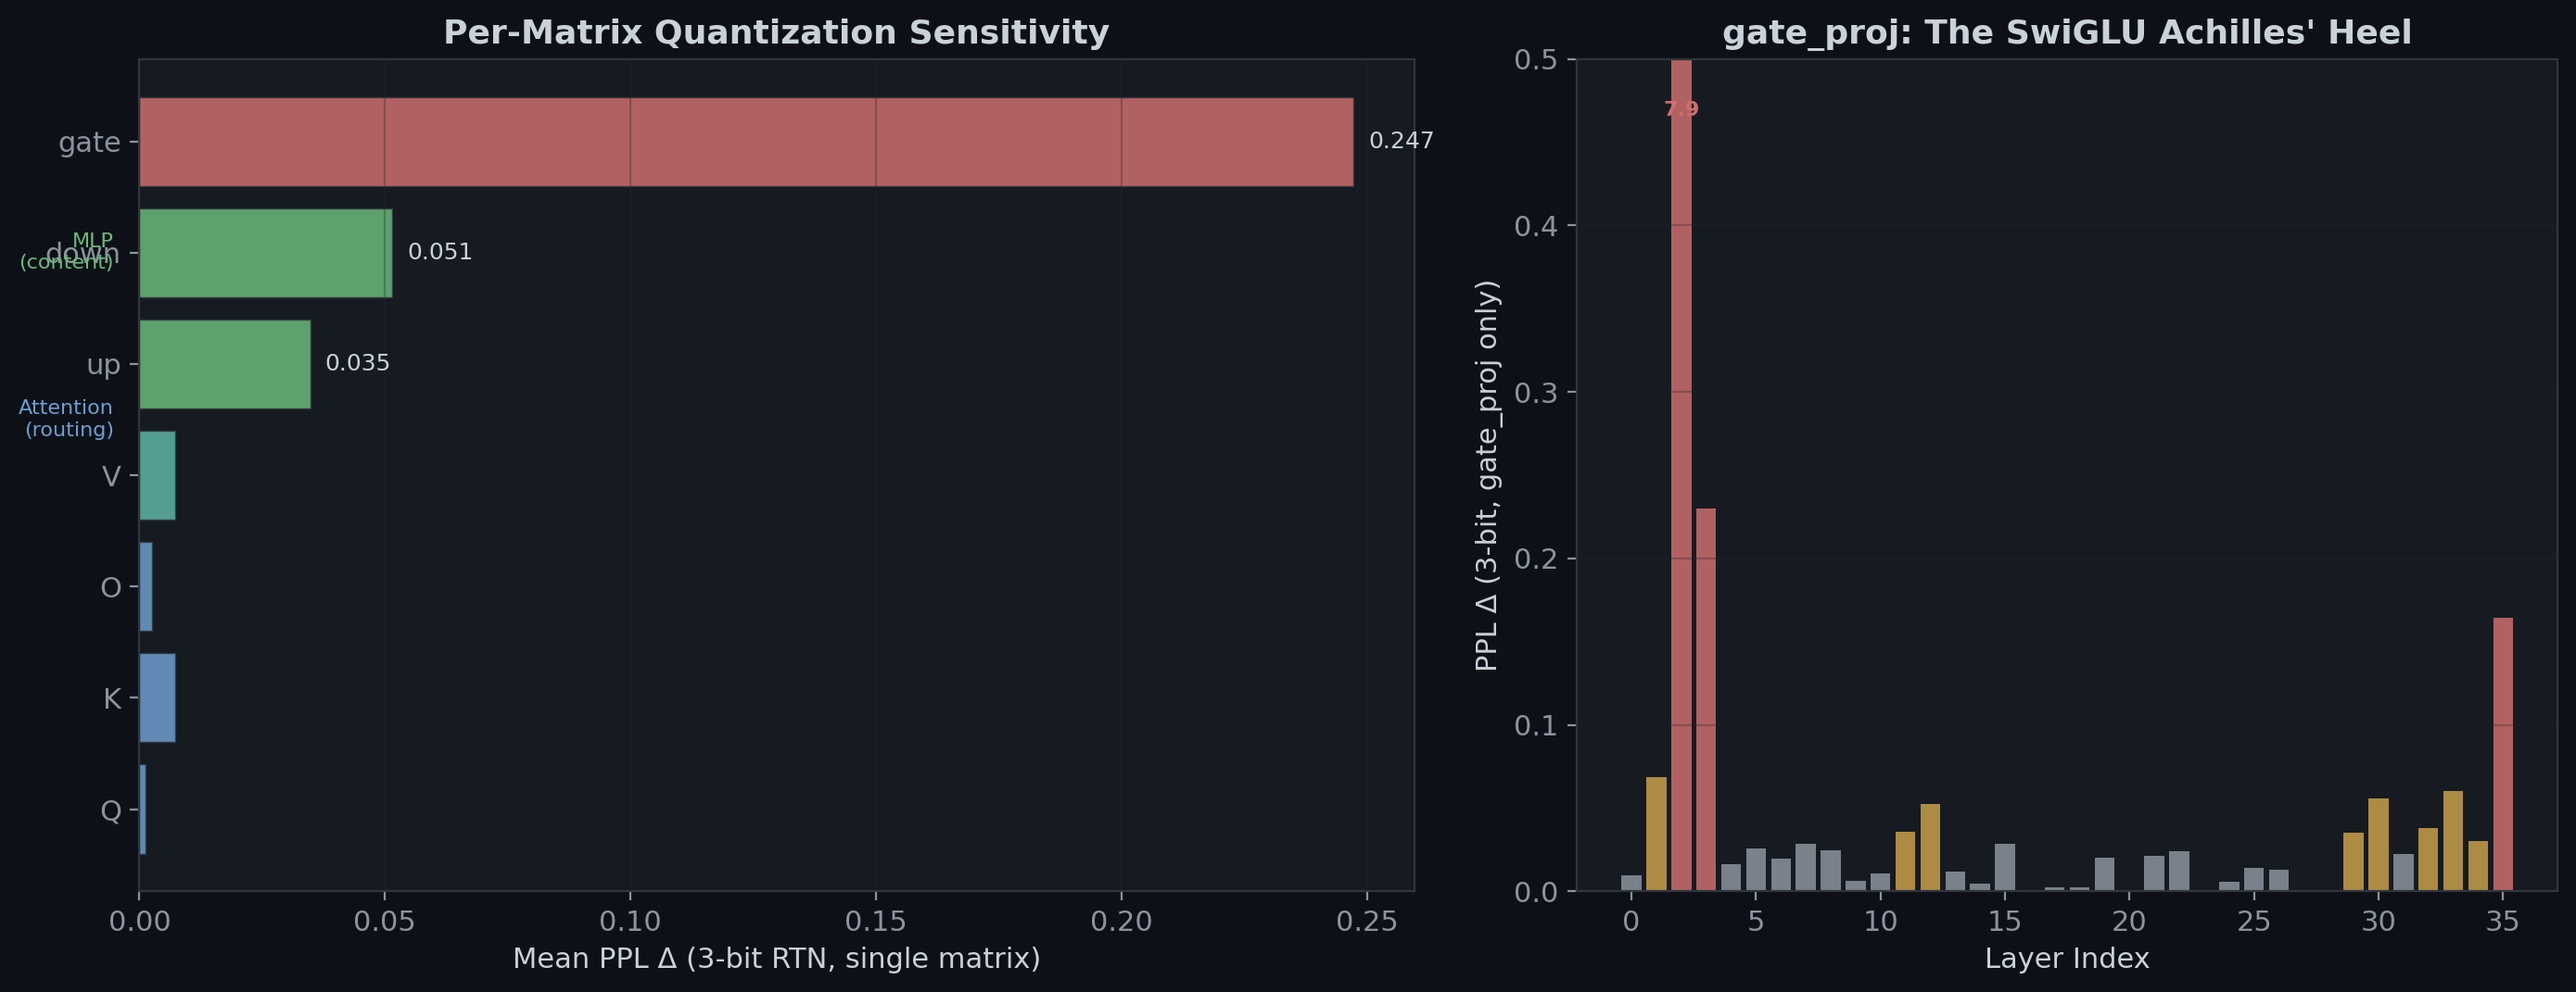
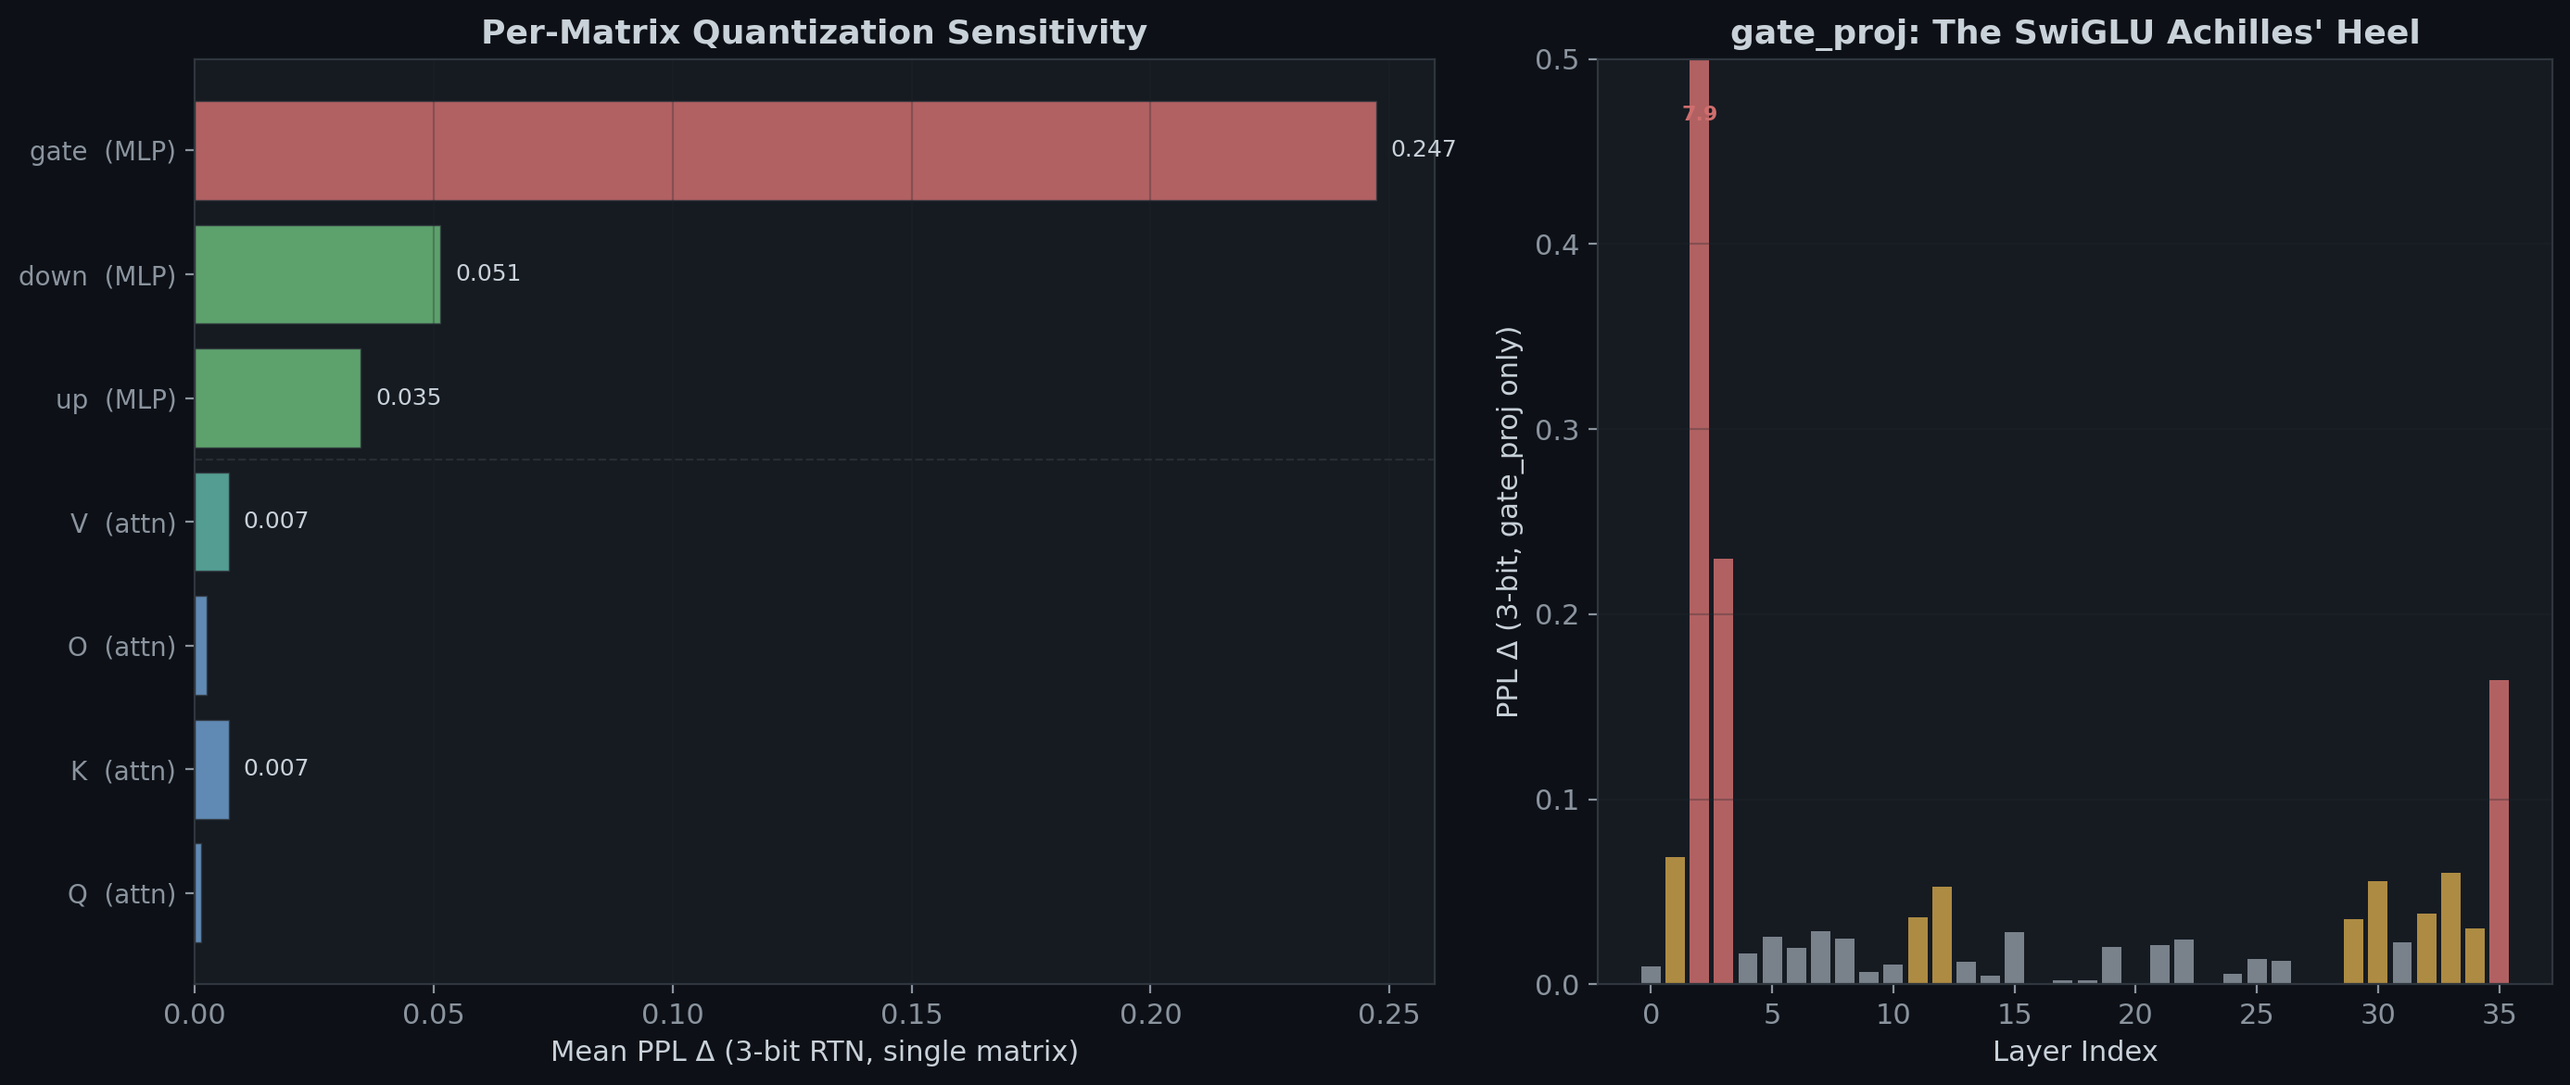
Update TODO and README to mark T-11 quantization as completed

diff --git a/blog/generate_t11_figures.py b/blog/generate_t11_figures.py
@@ -161,35 +161,32 @@ print("Saved fig10_quant_sensitivity.png")
 
 # ── Figure 11: Per-Matrix Quantization Sensitivity ──────────────
 
-fig, axes = plt.subplots(1, 2, figsize=(14, 5.5),
+fig, axes = plt.subplots(1, 2, figsize=(14, 6),
                           gridspec_kw={'width_ratios': [1.3, 1]})
 
-# Left: Mean sensitivity by matrix type
+# Left: Mean sensitivity by matrix type (grouped with visual separators)
 ax = axes[0]
 mat_order = ["q_proj", "k_proj", "o_proj", "v_proj", "up_proj", "down_proj", "gate_proj"]
 mat_means = [mat_sens[m].mean() for m in mat_order]
 mat_colors = [C_BLUE, C_BLUE, C_BLUE, C_CYAN, C_GREEN, C_GREEN, C_RED]
-mat_labels_short = ["Q", "K", "O", "V", "up", "down", "gate"]
+mat_labels_short = ["Q  (attn)", "K  (attn)", "O  (attn)", "V  (attn)",
+                     "up  (MLP)", "down  (MLP)", "gate  (MLP)"]
 
 bars = ax.barh(range(len(mat_order)), mat_means, color=mat_colors, alpha=0.85,
                edgecolor='#30363d', linewidth=0.5)
 ax.set_yticks(range(len(mat_order)))
-ax.set_yticklabels(mat_labels_short, fontsize=11)
+ax.set_yticklabels(mat_labels_short, fontsize=10)
 ax.set_xlabel("Mean PPL Δ (3-bit RTN, single matrix)")
 ax.set_title("Per-Matrix Quantization Sensitivity", fontsize=13, fontweight='bold')
 ax.grid(True, axis='x', alpha=0.3)
+# Separator line between attention and MLP groups
+ax.axhline(y=3.5, color='#30363d', ls='--', lw=0.8, alpha=0.7)
 
 # Add value labels
 for i, (bar, val) in enumerate(zip(bars, mat_means)):
-    if val > 0.01:
+    if val > 0.005:
         ax.text(val + 0.003, bar.get_y() + bar.get_height() / 2,
                 f'{val:.3f}', va='center', fontsize=9, color='#c9d1d9')
-
-# Annotate groups
-ax.text(-0.02, 3.5, 'Attention\n(routing)', fontsize=8, color=C_BLUE, ha='right',
-        va='center', transform=ax.get_yaxis_transform())
-ax.text(-0.02, 5.0, 'MLP\n(content)', fontsize=8, color=C_GREEN, ha='right',
-        va='center', transform=ax.get_yaxis_transform())
 
 # Right: gate_proj sensitivity by layer (showing the L2 spike)
 ax = axes[1]
@@ -217,57 +214,61 @@ print("Saved fig11_quant_matrix.png")
 
 # ── Figure 12: Mixed-Precision Recipes ──────────────────────────
 
-fig, ax = plt.subplots(figsize=(12, 5))
+fig, ax = plt.subplots(figsize=(13, 5.5))
 
 recipes = [
     ("Uniform\n4-bit", t11_p3["recipes"]["uniform_4bit"]["ppl_delta"], C_GRAY),
-    ("T-9 Spectral\nInformed", min(t11_p3["recipes"]["t9_spectral"]["ppl_delta"], 500), C_PURPLE),
-    ("T-7 Linearity\nInformed", min(t11_p3["recipes"]["t7_linearity"]["ppl_delta"], 500), C_ORANGE),
+    ("Spectral\nInformed", min(t11_p3["recipes"]["t9_spectral"]["ppl_delta"], 500), C_PURPLE),
+    ("Linearity\nInformed", min(t11_p3["recipes"]["t7_linearity"]["ppl_delta"], 500), C_ORANGE),
     ("Sensitivity\nOracle", t11_p3["recipes"]["sensitivity_oracle"]["ppl_delta"], C_CYAN),
     ("L35 at 5-bit\n(rest 4-bit)", t11_p3["recipes"]["first_last_protected"]["ppl_delta"], C_GREEN),
     ("Q/K=3b\nV/MLP=5b", t11_p3["recipes"]["qk3_vmul5"]["ppl_delta"], C_BLUE),
 ]
+
+actuals = [t11_p3["recipes"]["uniform_4bit"]["ppl_delta"],
+           t11_p3["recipes"]["t9_spectral"]["ppl_delta"],
+           t11_p3["recipes"]["t7_linearity"]["ppl_delta"],
+           t11_p3["recipes"]["sensitivity_oracle"]["ppl_delta"],
+           t11_p3["recipes"]["first_last_protected"]["ppl_delta"],
+           t11_p3["recipes"]["qk3_vmul5"]["ppl_delta"]]
 
 names = [r[0] for r in recipes]
 deltas = [r[1] for r in recipes]
 colors = [r[2] for r in recipes]
 
 bars = ax.bar(range(len(recipes)), deltas, color=colors, alpha=0.85,
-              edgecolor='#30363d', linewidth=0.5, width=0.7)
+              edgecolor='#30363d', linewidth=0.5, width=0.65)
 ax.set_xticks(range(len(recipes)))
-ax.set_xticklabels(names, fontsize=9)
+ax.set_xticklabels(names, fontsize=10)
 ax.set_ylabel("PPL Δ from BF16 baseline")
-ax.set_title("Mixed-Precision Recipes at ~4-bit Average: Simple Wins",
+ax.set_title("Mixed-Precision Recipes at ~4-bit Average",
              fontsize=13, fontweight='bold', pad=10)
 ax.grid(True, axis='y', alpha=0.3)
 
-# Annotate actual values
+# Annotate actual values — position carefully to avoid overlaps
 for i, (bar, delta) in enumerate(zip(bars, deltas)):
-    actual = [t11_p3["recipes"]["uniform_4bit"]["ppl_delta"],
-              t11_p3["recipes"]["t9_spectral"]["ppl_delta"],
-              t11_p3["recipes"]["t7_linearity"]["ppl_delta"],
-              t11_p3["recipes"]["sensitivity_oracle"]["ppl_delta"],
-              t11_p3["recipes"]["first_last_protected"]["ppl_delta"],
-              t11_p3["recipes"]["qk3_vmul5"]["ppl_delta"]][i]
-    label = f'+{actual:.1f}' if actual < 100 else f'+{actual:.0f}'
+    label = f'+{actuals[i]:.1f}' if actuals[i] < 100 else f'+{actuals[i]:.0f}'
     y = bar.get_height()
-    if y > 10:
-        ax.text(bar.get_x() + bar.get_width() / 2, y * 0.9, label,
-                ha='center', va='top', fontsize=9, color='#0d1117', fontweight='bold')
+    if y > 100:
+        ax.text(bar.get_x() + bar.get_width() / 2, y * 0.5, label,
+                ha='center', va='center', fontsize=10, color='#c9d1d9', fontweight='bold')
+    elif y > 10:
+        ax.text(bar.get_x() + bar.get_width() / 2, y + 8, label,
+                ha='center', va='bottom', fontsize=9, color='#c9d1d9')
     else:
-        ax.text(bar.get_x() + bar.get_width() / 2, y + 2, label,
+        ax.text(bar.get_x() + bar.get_width() / 2, y + 15, label,
                 ha='center', va='bottom', fontsize=9, color='#c9d1d9')
 
-# Arrow pointing to the winner
-ax.annotate('Best', xy=(4, deltas[4]), xytext=(4, deltas[4] + 50),
-            arrowprops=dict(arrowstyle='->', color=C_GREEN, lw=2),
-            fontsize=11, color=C_GREEN, ha='center', fontweight='bold')
+# Star marker on the winner instead of overlapping arrow
+ax.plot(4, deltas[4], '*', color=C_GREEN, markersize=18, zorder=5)
+ax.text(4, deltas[4] + 30, 'Best', ha='center', va='bottom',
+        fontsize=11, color=C_GREEN, fontweight='bold')
 
-# Note about catastrophic failure
-ax.annotate('Spectral recipe assigns\n2-bit to early layers\n→ catastrophic failure',
-            xy=(1, deltas[1]), xytext=(2.5, 400),
-            arrowprops=dict(arrowstyle='->', color=C_PURPLE, lw=1.5),
-            fontsize=8, color=C_PURPLE, ha='center')
+# Note about catastrophic failure — position to the right to avoid overlap
+ax.annotate('Assigns 2-bit to early layers\n→ catastrophic failure',
+            xy=(1, deltas[1]), xytext=(1.8, 380),
+            arrowprops=dict(arrowstyle='->', color=C_PURPLE, lw=1.5, alpha=0.7),
+            fontsize=9, color=C_PURPLE, ha='left')
 
 plt.tight_layout()
 plt.savefig(OUTDIR / "fig12_mixed_precision.png", dpi=200, bbox_inches='tight',

diff --git a/README.md b/README.md
@@ -18,6 +18,8 @@ A collection of deep learning research experiments focused on transformer model 
 
 **[T-9: Weight Spectral Structure](experiments/t9_weight_spectral_structure/)** — SVD analysis of all 252 weight matrices (7 types x 36 layers). Q/K routing matrices are dramatically lower-rank (0.25–0.38 effective rank ratio) than V/O value processing (0.52) and MLP (0.50–0.68), confirming "where to attend" is simpler than "what to extract." Q_proj rank jumps 36.7% at layer 24→25 (discrete transition in routing complexity). Layer 1 MLP is degenerate (gate/down eff rank ~0.12–0.13). Late-layer MLP compression in layers 34–35. Model: Qwen3-4B-Instruct-2507.
 
+**[T-11: Quantization Sensitivity](experiments/t11_quantization/)** — Per-layer and per-matrix quantization sensitivity analysis using RTN simulation (2–8 bit) plus full-model method comparison (bitsandbytes NF4, torchao INT4, GPTQ). Early layers (L0–3) are catastrophically sensitive (L2 at 2-bit: +3,828 PPL), while mid-layers (L8–20) absorb 2-bit with <1 PPL impact. SwiGLU gate_proj is 50x more sensitive than Q/K projections. Sensitivity correlates with linearity gap (ρ=0.68). Spectral-informed mixed-precision fails; simple uniform 4-bit is near-lossless. Model: Qwen3-4B-Instruct-2507.
+
 **[T-17: Contrastive Completion Trajectories](experiments/t17_contrastive_trajectories/)** — Force-decode semantically related completions (synonyms, antonyms, style variants, unrelated) and compare hidden-state trajectories layer-by-layer. Discovers a meaning-vs-form crossover at layer ~18: synonyms are closer than antonyms in early layers (shared meaning) but diverge more in late layers (different surface forms). Context dominates token identity in the residual stream (antonym cosine > 0.72 across layers 2–34). Layer 35 universally destroys inter-completion similarity. KL divergence follows a U-shape for all types except antonyms. 50 hand-crafted contrastive groups, 4 relationship types. Model: Qwen3-4B-Instruct-2507.
 
 **[Layer Shuffle Recovery](experiments/layer_shuffle_recovery/)** — Shuffle all 28 layers of Qwen3-1.7B and test 13 recovery methods. Best pipeline achieves perfect recovery (100% accuracy) in ~19 seconds.
@@ -32,14 +34,14 @@ See [TODO.md](TODO.md) for the full research agenda:
 
 - **T-5, T-6, T-8**: Architecture surgery — cross-model layer transplant, layer doubling/iteration, thinking vs answer token routing.
 - **T-10a/b**: Attention architecture survey & kernel benchmarks — comparative study of MHA, GQA, MLA, DeltaNet, Mamba2, RWKV-7, sparse attention, and hybrid designs; GPU kernel microbenchmarks (FA2/3/4, FlashInfer, Triton, SageAttention3).
-- **T-11 to T-14**: Inference & systems — quantization methods, CUDA graphs & torch.compile, KV-cache optimization, NIXL & disaggregated inference.
-- **T-15, T-16**: Component analysis — normalization layer analysis & replacement, activation function survey & ablation.
+- **T-12 to T-14**: Inference & systems — CUDA graphs & torch.compile, KV-cache optimization, NIXL & disaggregated inference.
+- **T-16**: Component analysis — activation function survey & ablation.
 - **D-1 to D-6**: Diffusion-inspired experiments — depth-as-denoising, noise injection/recovery, iterative refinement, flow matching, AR as discrete denoiser, textual diffusion from scratch.
 - **VL-1 to VL-8**: Vision-language model experiments (Qwen3-VL-2B-Instruct) — modality gap, visual token redundancy, hallucination localization, bottleneck analysis, representation decoding, modality-specific criticality, cross-modal interference, VLM layer shuffle.
 
 ## Evaluation Data
 
-Experiments T-1 through T-4, T-7, and T-9 use pre-generated greedy completions as evaluation data. T-17 uses hand-crafted contrastive pairs (`data/text_completions/contrastive_pairs.json`).
+Experiments T-1 through T-4, T-7, T-9, and T-11 use pre-generated greedy completions as evaluation data. T-17 uses hand-crafted contrastive pairs (`data/text_completions/contrastive_pairs.json`).
 - Prompts: 50 question/instruction-format prompts across 7 categories (factual, reasoning, linguistic, code, world knowledge, technical, rare)
 - Completions generated via vLLM (temp=0, max 2048 tokens) with system message to prevent echo
 - Loss computed only on completion tokens, not prompt/template tokens

diff --git a/TODO.md b/TODO.md
@@ -443,7 +443,7 @@ Pure performance benchmarking of attention **kernel implementations** — differ
 - How close does cross-platform Triton Attention get to vendor-specific kernels (FA4, CUTLASS)? Is portability worth the performance gap?
 - For MLA workloads: is FlashMLA on Hopper comparable to CUTLASS MLA on Blackwell, or does the architecture need different kernels per GPU generation?
 
-### T-11. Quantization Methods Comparative Analysis
+### T-11. Quantization Methods Comparative Analysis ✅ [completed](experiments/t11_quantization/)
 Comprehensive comparison of quantization techniques across quality, performance, and mathematical accuracy dimensions.
 
 **Methods/tools to evaluate:**
